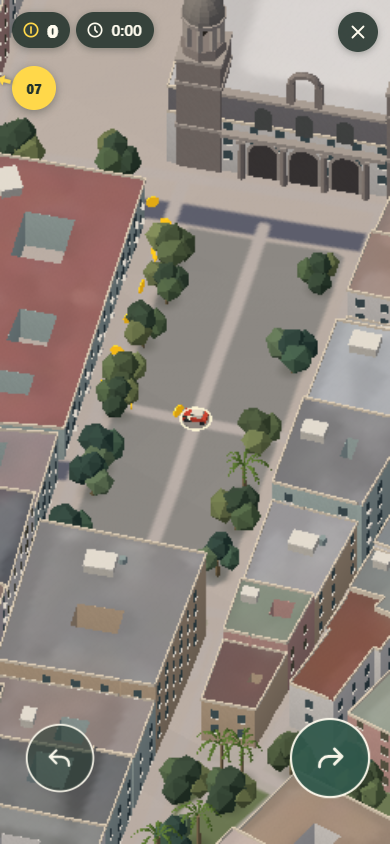
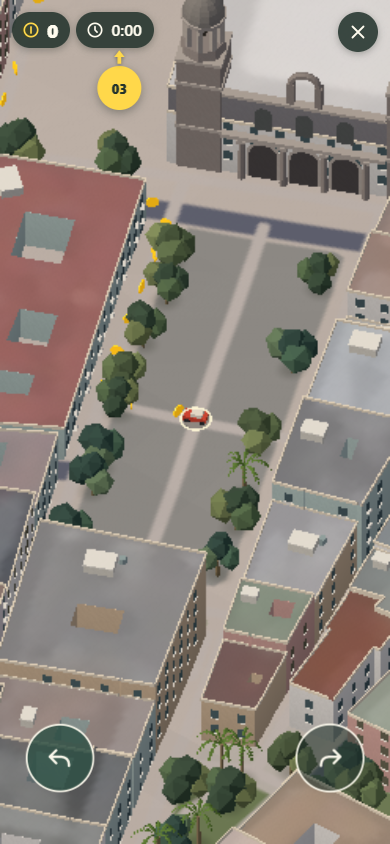
Show the heading arrow only behind building volumes

diff --git a/drive.js b/drive.js
@@ -1,3 +1,4 @@
+import {blocksCamera} from './building-occlusion.js';
 import { routesFrom, indexRoadNodes } from './road-routing.js';
 import * as T from 'three';
 import { mergeGeometries } from 'three/addons/utils/BufferGeometryUtils.js';
@@ -52,6 +53,7 @@ export function makeDrive({scene,camera,host,data,locations,altitude,view,compac
   let world=null;
   function build(){
     const grid=new Map();
+    let highestRoof=-Infinity;
     const cell=(cx,cy)=>{
       const k=cx+','+cy;
       if(!grid.has(k))grid.set(k,{segs:[],trees:[],blocks:[]});
@@ -70,7 +72,10 @@ export function makeDrive({scene,camera,host,data,locations,altitude,view,compac
       for(const ring of b.rings)wall(ring);
       const xs=b.rings[0].map(p=>p[0]),ys=b.rings[0].map(p=>p[1]);
       const [x0,x1]=span(Math.min(...xs),Math.max(...xs)),[y0,y1]=span(Math.min(...ys),Math.max(...ys));
-      for(let cx=x0;cx<=x1;cx++)for(let cy=y0;cy<=y1;cy++)cell(cx,cy).blocks.push(b.rings[0]);
+      const base=altitude(...b.rings[0][0]);
+      const block={rings:b.rings,base:base-2,top:base+(b.heightOverride??b.height)};
+      highestRoof=Math.max(highestRoof,block.top);
+      for(let cx=x0;cx<=x1;cx++)for(let cy=y0;cy<=y1;cy++)cell(cx,cy).blocks.push(block);
     }
     wall(data.boundary);
     // Road graph: OSM vertices are already rounded to 0.1 m, so shared nodes share a key.
@@ -89,7 +94,7 @@ export function makeDrive({scene,camera,host,data,locations,altitude,view,compac
         nodes[a].links.push([b,d]);nodes[b].links.push([a,d]);
       }
     }
-    world={grid,nodes};
+    world={grid,nodes,highestRoof};
     // Only free-standing trees are solid: a trunk beside a facade would wedge the cars.
     for(const [x,y] of data.trees.filter(([x,y])=>!near(x,y,TUNE.treeClearance)))cell(Math.floor(x/CELL),Math.floor(y/CELL)).trees.push([x,y]);
     const sizes=[];
@@ -123,7 +128,7 @@ export function makeDrive({scene,camera,host,data,locations,altitude,view,compac
   function free(x,y,r){
     if(!inRing(data.boundary,x,y) || near(x,y,r))return false;
     const c=world.grid.get(Math.floor(x/CELL)+','+Math.floor(y/CELL));
-    return !c || !c.blocks.some(ring=>inRing(ring,x,y));
+    return !c || !c.blocks.some(b=>inRing(b.rings[0],x,y));
   }
   function sight(ax,ay,bx,by){
     const d=Math.hypot(bx-ax,by-ay),steps=Math.ceil(d/1.8);
@@ -217,12 +222,32 @@ export function makeDrive({scene,camera,host,data,locations,altitude,view,compac
   nose.closePath();
   const arrow=new T.ShapeGeometry(nose);
   const inset=arrow.clone().translate(-1.25,0,0).scale(.70,.65,1).translate(1.25,0,0);
-  const marker=mergeGeometries([tint(new T.RingGeometry(2.3,2.75,28),'#fff7d6'),
-    tint(arrow,'#263831'),tint(inset,'#fff7d6')]);
-  const halo=new T.Mesh(marker.rotateX(-Math.PI/2),new T.MeshBasicMaterial({
-    vertexColors:true,transparent:true,opacity:.9,depthTest:false,depthWrite:false
-  }));
-  halo.renderOrder=10;group.add(halo);
+  const markerMaterial=new T.MeshBasicMaterial({vertexColors:true,transparent:true,opacity:.9,depthTest:false,depthWrite:false});
+  const halo=new T.Mesh(tint(new T.RingGeometry(2.3,2.75,28),'#fff7d6').rotateX(-Math.PI/2),markerMaterial);
+  const heading=new T.Mesh(mergeGeometries([tint(arrow,'#263831'),tint(inset,'#fff7d6')]).rotateX(-Math.PI/2),markerMaterial);
+  halo.renderOrder=10;heading.renderOrder=11;heading.visible=false;
+  halo.add(heading);group.add(halo);
+  const checked=new Set();
+  function cabinIsHidden(){
+    const height=player.mesh.position.y+1.2*TUNE.visualScale;
+    const m=camera.matrixWorld.elements,dx=m[8]/m[9],dy=-m[10]/m[9];
+    const distance=world.highestRoof-height;
+    if(distance<=0)return false;
+    const x=player.x,y=player.y,ex=x+dx*distance,ey=y+dy*distance;
+    checked.clear();
+    for(let cx=Math.floor(Math.min(x,ex)/CELL);cx<=Math.floor(Math.max(x,ex)/CELL);cx++){
+      for(let cy=Math.floor(Math.min(y,ey)/CELL);cy<=Math.floor(Math.max(y,ey)/CELL);cy++){
+        const cell=world.grid.get(cx+','+cy);
+        if(!cell)continue;
+        for(const block of cell.blocks){
+          if(checked.has(block))continue;
+          checked.add(block);
+          if(blocksCamera(block,x,y,height,dx,dy))return true;
+        }
+      }
+    }
+    return false;
+  }
   const dummy=new T.Object3D();
   const coinMesh=new T.InstancedMesh(new T.CylinderGeometry(1.15,1.15,.24,14).rotateX(Math.PI/2),new T.MeshStandardMaterial({color:'#ffcf24',emissive:'#b07a00',roughness:.4,flatShading:true}),COINS);
   coinMesh.frustumCulled=false;coinMesh.count=0;group.add(coinMesh);
@@ -497,6 +522,7 @@ export function makeDrive({scene,camera,host,data,locations,altitude,view,compac
     coins.forEach((c,i)=>{
       dummy.position.set(c.x,c.z+Math.sin(spin+i)*.15,-c.y);dummy.rotation.set(0,spin+i*.7,0);dummy.scale.setScalar(1);
       dummy.updateMatrix();coinMesh.setMatrixAt(i,dummy.matrix);
+    heading.visible=cabinIsHidden();
     });
     coinMesh.instanceMatrix.needsUpdate=true;
     dust.forEach((p,i)=>{

diff --git a/building-occlusion.js b/building-occlusion.js
@@ -1,0 +1,22 @@
+/** Intersect an upward camera ray with a building's extruded footprint, including courtyards.
+ * Coordinates are east/north. dx and dy are horizontal metres per metre of elevation.
+ */
+export function blocksCamera({rings,base,top},x,y,height,dx,dy){
+  if(top<=height)return false;
+  const start=Math.max(0,base-height),stop=top-height;
+  const ax=x+dx*start,ay=y+dy*start,bx=x+dx*stop,by=y+dy*stop;
+  const vx=bx-ax,vy=by-ay;
+  let inside=false;
+  for(const ring of rings){
+    for(let i=1;i<ring.length;i++){
+      const [px,py]=ring[i-1],[qx,qy]=ring[i];
+      if((py>ay)!==(qy>ay) && ax<(qx-px)*(ay-py)/(qy-py)+px)inside=!inside;
+      const ex=qx-px,ey=qy-py,det=vx*ey-vy*ex;
+      if(Math.abs(det)<1e-9)continue;
+      const t=((px-ax)*ey-(py-ay)*ex)/det;
+      const u=((px-ax)*vy-(py-ay)*vx)/det;
+      if(t>=0 && t<=1 && u>=0 && u<=1)return true;
+    }
+  }
+  return inside;
+}

diff --git a/README.md b/README.md
@@ -68,7 +68,7 @@ El botón 🚗 de las herramientas abre una persecución arcade sobre la maqueta
 - Las monedas marcan la ruta por las calles hasta uno de los lugares; al llegar hay un bono y aparece otra ruta.
 - Las patrullas aumentan cada 18 s. Te atrapan si te alcanzan cuando vas despacio; a plena velocidad solo empujan. El récord se guarda en el navegador.
 
-La interfaz del juego no usa texto: iconos para monedas y tiempo durante la partida, y el récord en el resumen final; dos zonas táctiles animadas enseñan a girar y, tras unos segundos, a frenar con ambas; una ficha amarilla con el número del lugar señala el destino desde el borde de la pantalla; un haz de luz lo marca en la maqueta. Una flecha dentro del círculo del coche señala el morro incluso cuando lo oculta un edificio. Los nombres se anuncian solo a lectores de pantalla.
+La interfaz del juego no usa texto: iconos para monedas y tiempo durante la partida, y el récord en el resumen final; dos zonas táctiles animadas enseñan a girar y, tras unos segundos, a frenar con ambas; una ficha amarilla con el número del lugar señala el destino desde el borde de la pantalla; un haz de luz lo marca en la maqueta. Una flecha dentro del círculo del coche señala el morro solo cuando un edificio tapa la cabina. Los nombres se anuncian solo a lectores de pantalla.
 
 Toda la física y el ritmo se ajustan en el objeto `TUNE` al inicio de `drive.js`.
 

diff --git a/docs/QA.md b/docs/QA.md
@@ -65,7 +65,7 @@ La [vista mobile del Teatro Pérez Galdós](screenshots/teatro-mobile.png) copre
 - Chrome con emulazione 390×844, 10 s di guida: intervallo mediano fra frame 17,5 ms, 95º percentile 18,3 ms. È il computer di sviluppo, non un telefono.
 - [Schermata mobile](screenshots/conducir-mobile.png).
 
-Limiti noti: nessuna prova su telefono fisico (tocco reale, vibrazione, prestazioni). Lo swipe non ha un test automatico. La cattura nel test dipende dall'arrivo casuale delle pattuglie, con attesa massima di 120 s. Le auto sono cerchi di 1,15 m di raggio; solo gli alberi a più di 4,5 m da una facciata sono ostacoli. Le ombre dinamiche sono macchie, la shadow map resta statica. Gli edifici possono coprire l'auto nelle vie strette: l’anello e la freccia interna seguono il muso e restano visibili attraverso i volumi.
+Limiti noti: nessuna prova su telefono fisico (tocco reale, vibrazione, prestazioni). Lo swipe non ha un test automatico. La cattura nel test dipende dall'arrivo casuale delle pattuglie, con attesa massima di 120 s. Le auto sono cerchi di 1,15 m di raggio; solo gli alberi a più di 4,5 m da una facciata sono ostacoli. Le ombre dinamiche sono macchie, la shadow map resta statica. Gli edifici possono coprire l'auto nelle vie strette: l’anello identifica il veicolo; la freccia interna compare quando un volume edilizio copre il centro dell’abitacolo.
 
 ### Interfaccia a icone e game feel
 
